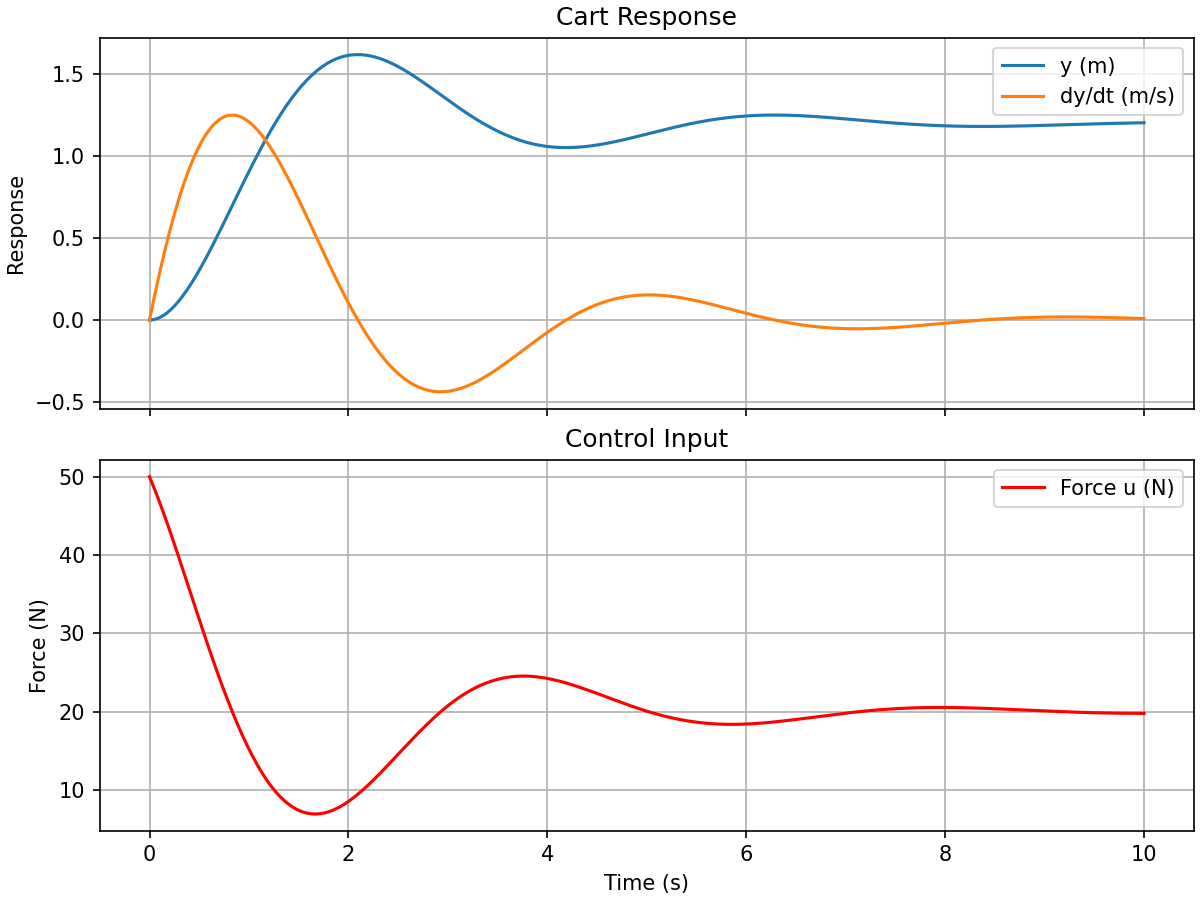
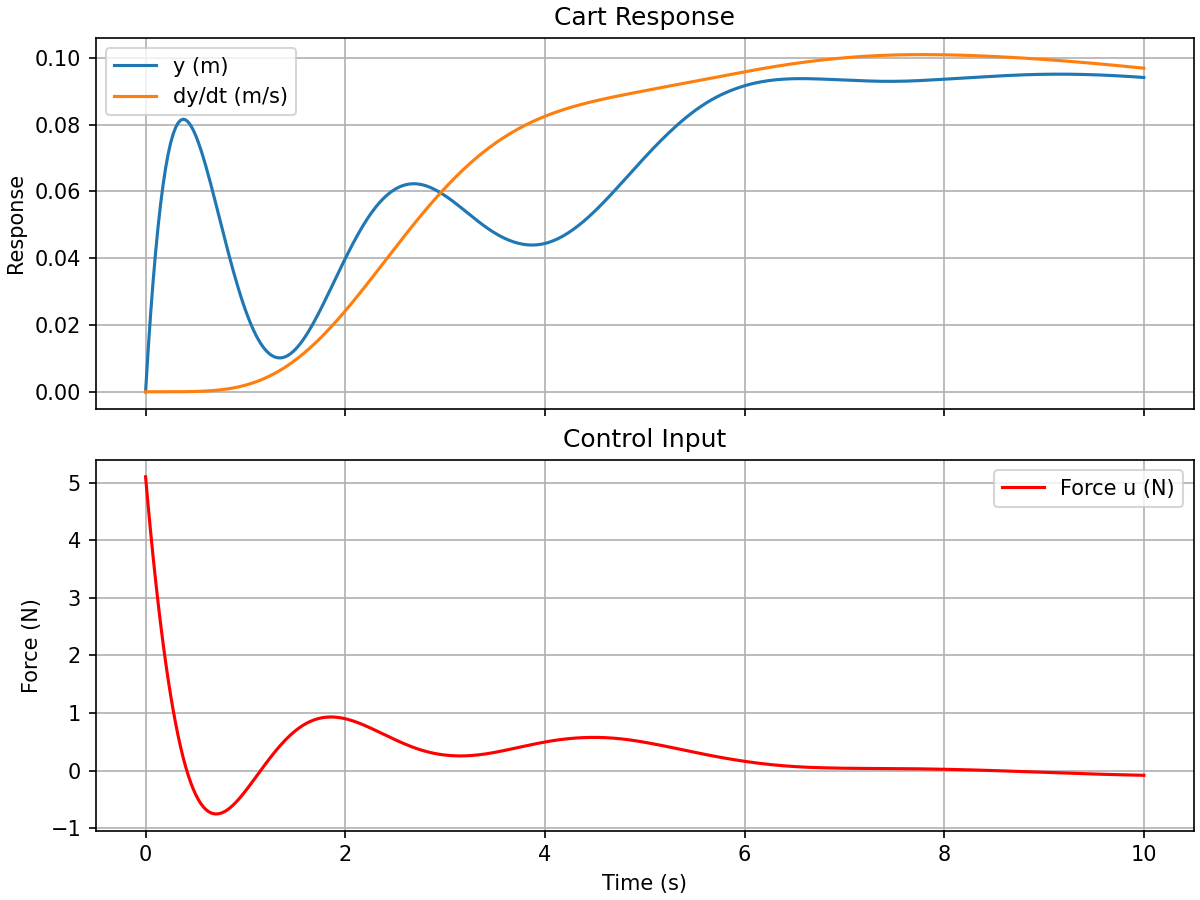
updates for moving to control

diff --git a/Control/tripleCartControl.py b/Control/tripleCartControl.py
@@ -10,7 +10,7 @@ file_directory = os.path.dirname(os.path.abspath(__file__))
 # --- System Parameters ---
 m = 10  # kg (cart mass)
 c = 10.0  # Ns/m (viscous friction coefficient)
-k = 1 #N/m
+k = 5 #N/m
 
 M = np.array([[m, 0, 0],
               [0, m, 0],
@@ -20,10 +20,6 @@ P = np.array([[k, -k,    0],
               [-k, k+k, -k],
               [0, -k,    k]])
 
-D = np.array([[c, -c,    0],
-              [-c, c+c, -c],
-              [0, -c,    c]])
-
 b = np.array([[1],
               [0],
               [0]])
@@ -31,7 +27,7 @@ b = np.array([[1],
 # --- State-space matrices ---
 A = np.block([
     [np.zeros((3,3)), np.identity(3)],
-    [inv(M) @ -P, -D]
+    [inv(M) @ -P, np.zeros((3,3))]
 ])
 
 B = np.block([
@@ -42,9 +38,9 @@ B = np.block([
 # --- Control parameters ---
 y_d = 2.0     # desired position for cart 3
 ydot_d = 0.0  # desired velocity
-k_p, k_d = 10.0, 0.0  # PD gains
+k_p, k_d = 2.0, 2.0  # PD gains
 
-# Control input function (force applied to cart 1)
+# Control input function (force applied to cart 1). Modify me!
 def u(t, x):
     y = x[2]       # cart 3 position
     ydot = x[5]    # cart 3 velocity
@@ -57,8 +53,8 @@ def xdot(t, x):
     return dx.flatten()
     
 # --- Simulation setup ---
-t_span = (0, 100)  # time range
-x0 = np.ones(6)  # initial state: [x1, x2, x3, x1dot, x2dot, x3dot]
+t_span = (0, 15)  # time range
+x0 = np.zeros(6)  # initial state: [x1, x2, x3, x1dot, x2dot, x3dot]
 
 solution = solve_ivp(xdot, t_span, x0, t_eval=np.linspace(*t_span, 400))
 

diff --git a/Control/tripleCartTransferFunction.py b/Control/tripleCartTransferFunction.py
@@ -49,10 +49,14 @@ print("Transfer function:",sys_tf)
 print("Poles:", ct.poles(sys_ss))
 print("Zeros:", ct.zeros(sys_ss))
 
+ct.root_locus(sys_tf)
+
 ct.bode_plot(sys_tf, dB=True, Hz=False, omega_limits=(1e-1, 1e2), omega_num=400)
 
 # --- Control parameters ---
 y_d = 2.0     # desired position for cart 1
+x_d = np.array([y_d, y_d, y_d, 0.0, 0.0, 0.0])
+
 ydot_d = 0.0  # desired velocity
 k_p, k_d = 10.0, 0.0  # PD gains
 
@@ -68,7 +72,7 @@ K = ct.place(A, B, desired_poles)
 
 def u(t, x):
     # full-state feedback, returns 1D array
-    force = -K @ (x)  
+    force = K @ ( x_d -x)  
     return np.array([force])[0]
 
 #def u(t, x):
@@ -84,7 +88,7 @@ def xdot(t, x):
     
 # --- Simulation setup ---
 t_span = (0, 10)  # time range
-x0 = np.ones(6)  # initial state: [x1, x2, x3, x1dot, x2dot, x3dot]
+x0 = np.zeros(6)  # initial state: [x1, x2, x3, x1dot, x2dot, x3dot]
 
 solution = solve_ivp(xdot, t_span, x0, t_eval=np.linspace(*t_span, 400))
 
